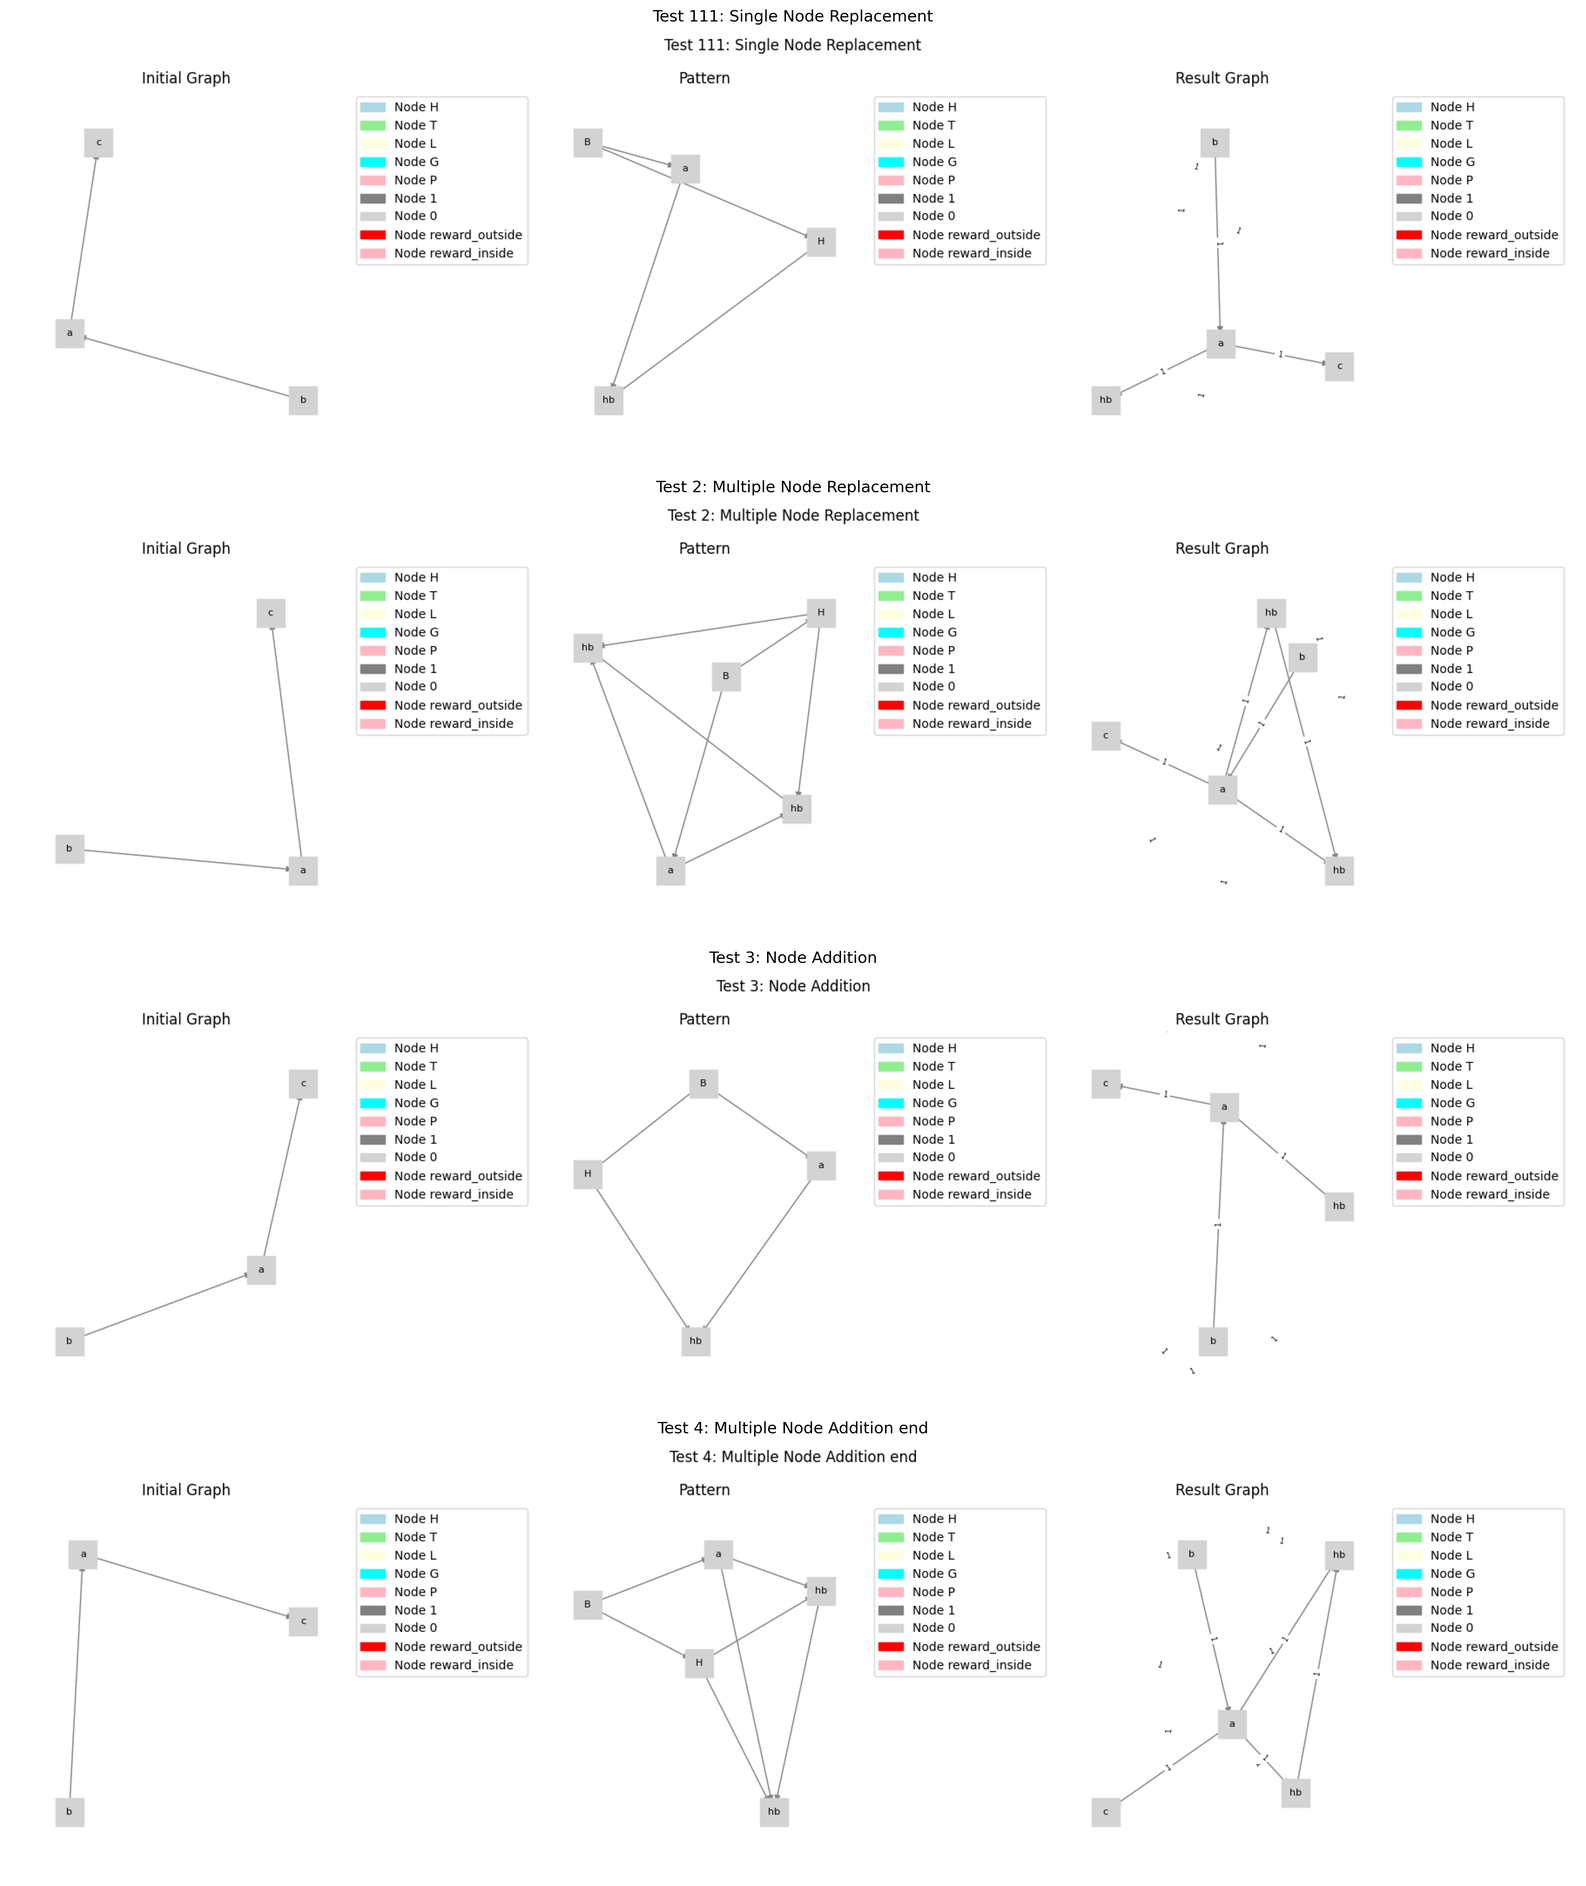
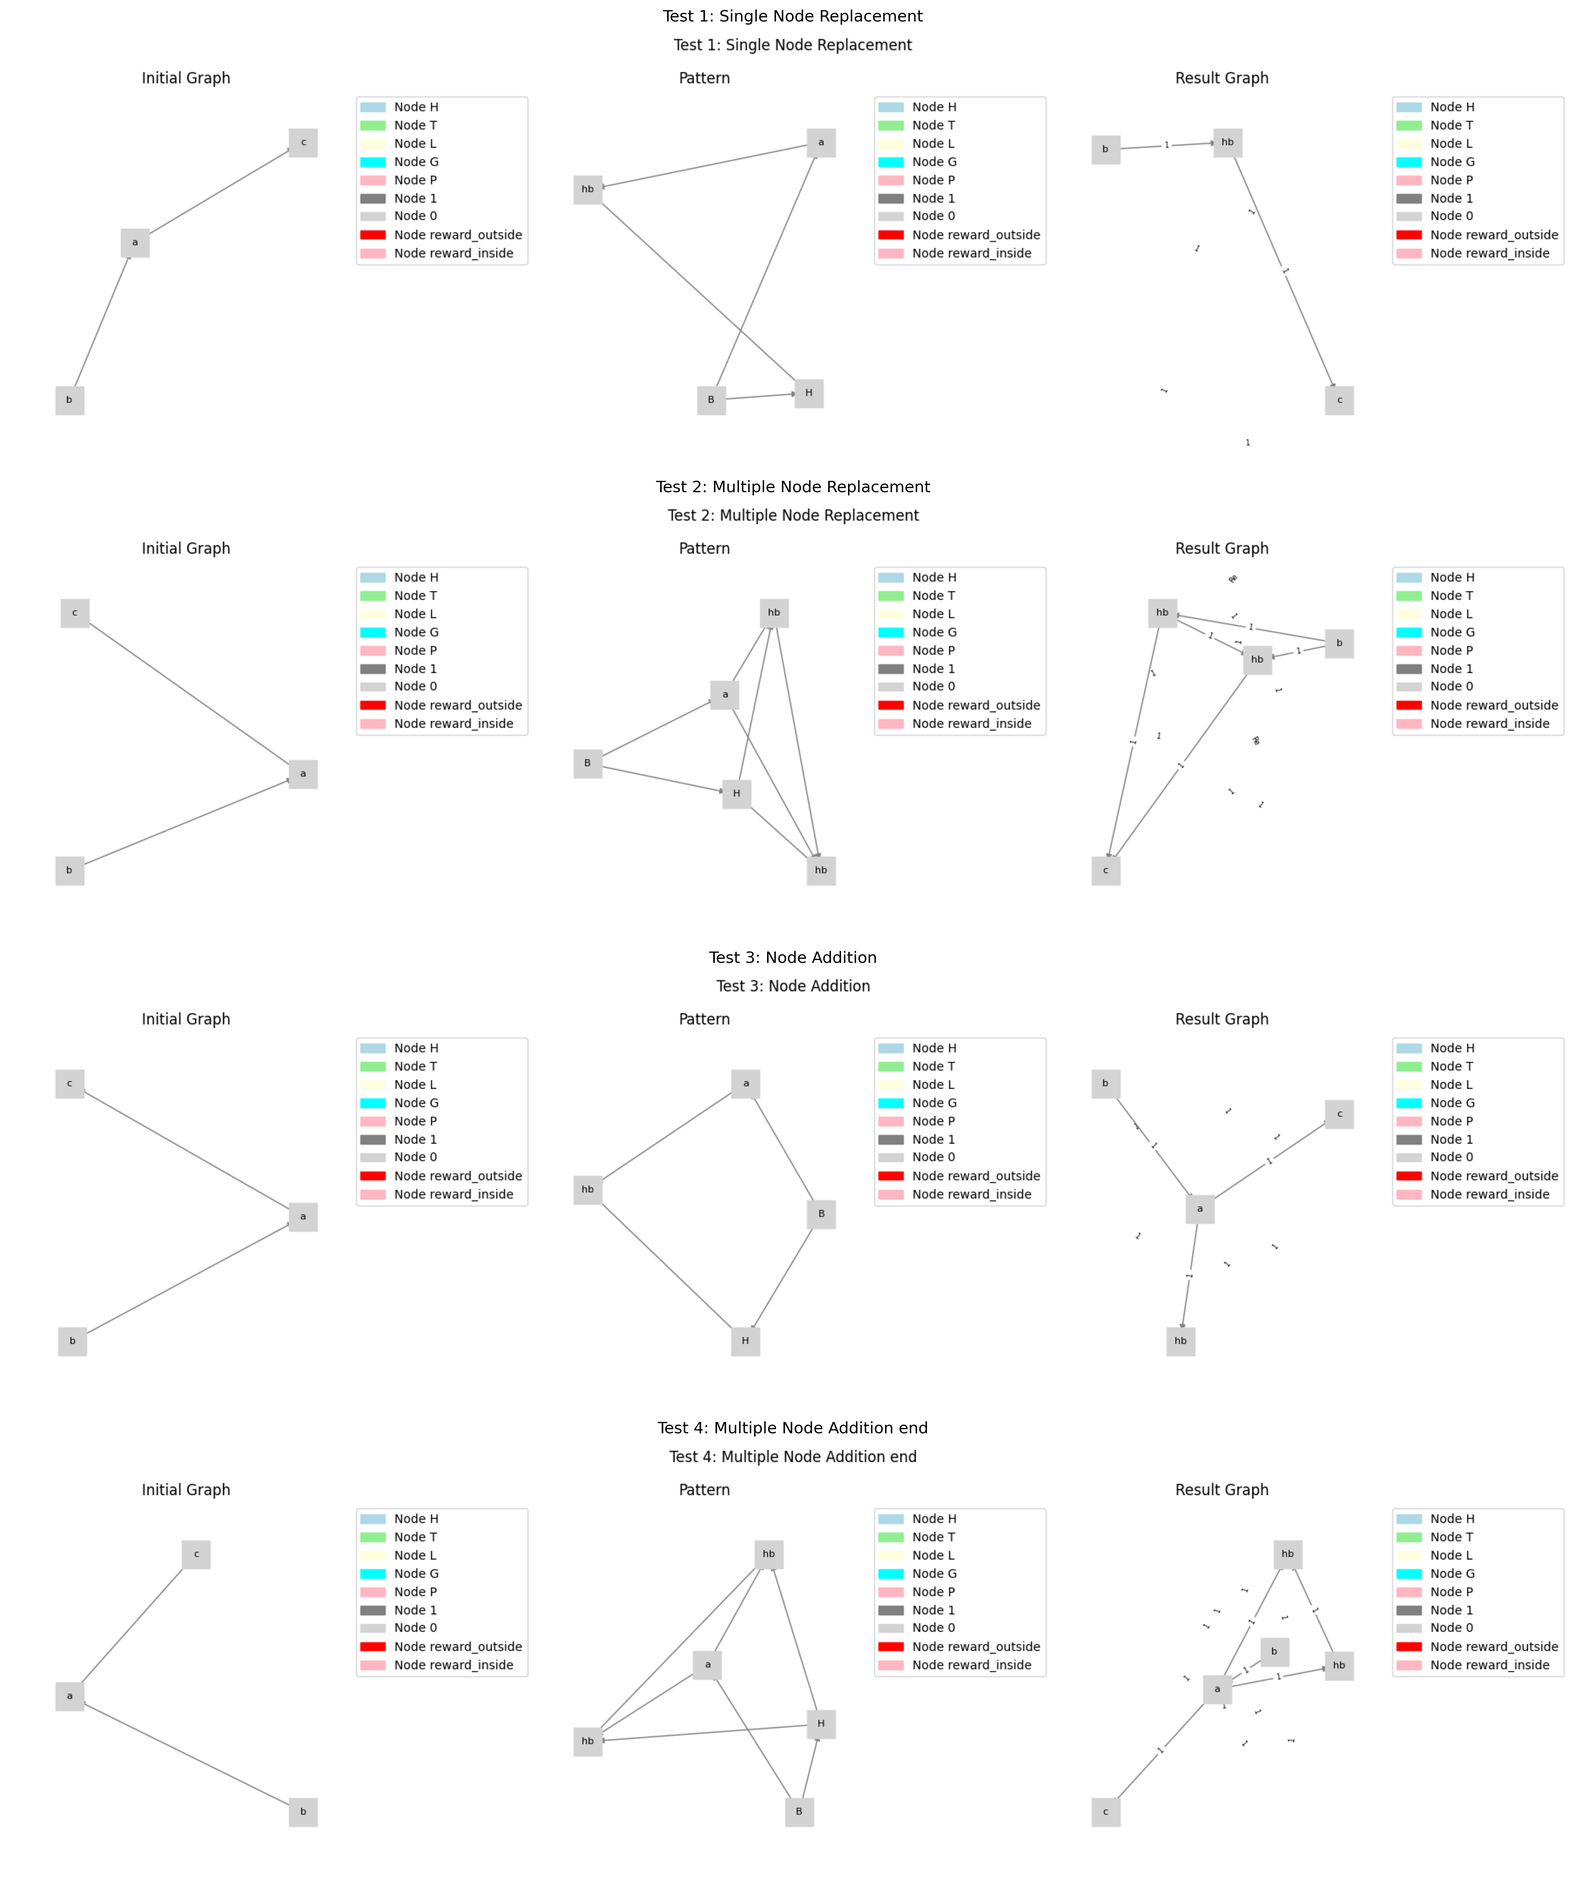
doing transforms replace part

diff --git a/DS/main.py b/DS/main.py
@@ -14,45 +14,47 @@ random.seed(1)
 NC = NodeCollection()
 GC = GraphCollection(NC=NC)
 
+def diff_graphs(G1, G2):
+    differences = {}
 
-class Transformation:
-    """Class to handle graph transformations with patterns"""
-    # ?? Add visualize with depth, G location of nearest nodes to pattern and transform procecces.
-    def __init__(self, pattern):
-        from DS.Space.Matching import edge_none_match, node_none_match
-        from DS.Space.Collections import GraphCollection
-        """
-        Initialize transformation with a pattern
-        
-        Args:
-            pattern (nx.DiGraph): Pattern graph with base and head
-        """        
-        self.pattern = pattern
-        self.n_m = node_none_match
-        self.e_m = edge_none_match
-        # self._init_pattern(pattern)
+    # Check graph type
+    if type(G1) != type(G2):
+        differences["graph_type"] = (type(G1), type(G2))
 
-    def _init_pattern(self):
-        """
-        Initialize the pattern
-        """
-        self.pbase = self.pattern.graph.get('pbase', None)
-        self.phead = self.pattern.graph.get('phead', None)
-        self.iB = self.pattern.graph.get('iB', 'B')
-        self.iH = self.pattern.graph.get('iH', 'H')
+    # Check node differences
+    nodes_G1 = set(G1.nodes())
+    nodes_G2 = set(G2.nodes())
 
-    
-        
-        
-        # G_copy = G.copy()
-        # apply_pattern(self.pattern, G)
-        
-        # if visualize:
-        #     VisG.visualize_transformation(G_copy, self.pattern, G, "Graph Transformation")
-            
-        # return G
+    if nodes_G1 != nodes_G2:
+        differences["missing_nodes"] = nodes_G1.symmetric_difference(nodes_G2)
 
+    # Check node attribute differences
+    node_attr_diffs = {}
+    for node in nodes_G1 & nodes_G2:
+        if G1.nodes[node] != G2.nodes[node]:
+            node_attr_diffs[node] = (G1.nodes[node], G2.nodes[node])
 
+    if node_attr_diffs:
+        differences["node_attributes"] = node_attr_diffs
+
+    # Check edge differences
+    edges_G1 = set(G1.edges())
+    edges_G2 = set(G2.edges())
+
+    if edges_G1 != edges_G2:
+        differences["missing_edges"] = edges_G1.symmetric_difference(edges_G2)
+
+    # Check edge attribute differences
+    edge_attr_diffs = {}
+    for edge in edges_G1 & edges_G2:
+        if G1[edge[0]][edge[1]] != G2[edge[0]][edge[1]]:
+            edge_attr_diffs[edge] = (G1[edge[0]][edge[1]], G2[edge[0]][edge[1]])
+
+    if edge_attr_diffs:
+        differences["edge_attributes"] = edge_attr_diffs
+    if differences != {}:
+        print('differences', differences)
+    return differences
 
 def create_test_graph(type='linear'):
     # Create test graph
@@ -89,19 +91,7 @@ def test_single_node_replacement_linear(graph2=create_test_graph(type='linear'),
     pbase, phead = nx.DiGraph(), nx.DiGraph()
     pbase.add_nodes_from([(10, {'type': None, 'label': 'a'})])
     phead.add_nodes_from([(11, {'type': 'F', 'label': 'hb'})])
-    pattern = create_pattern(phead, pbase, [(10, 11, {'type': 'replacement', 'label': '1'})])
-
-    # Create expected result
-    result_graph = nx.DiGraph()
-    result_graph.add_nodes_from([
-        (11, {'type': 'F', 'label': 'hb'}),
-        (1, {'type': 'b', 'label': 'b'}),
-        (2, {'type': 'c', 'label': 'c'}),
-    ])
-    result_graph.add_edges_from([
-        (1, 11, {'type': 1, 'label': '1'}),
-        (11, 2, {'type': 1, 'label': '1'}),
-    ])
+    pattern = create_pattern(phead, pbase, [(10, 11, {'type': 'replacement', 'label': 'Re'})])
 
     # Apply transformation
     graph2_copy = graph2.copy()
@@ -109,12 +99,42 @@ def test_single_node_replacement_linear(graph2=create_test_graph(type='linear'),
     GC.add_graph_to_collection(graph2, label='test', is_pattern=False)
     GC.transform(pattern)
 
-    # Visualize
-    print('-------in------G new ', GC.G.nodes(data=True), GC.G.edges)
-    if visualize:
-        VisG.visualize_transformation(graph2_copy, pattern, GC.G, "Test 111: Single Node Replacement")
+    # Create expected result (matching the node IDs that are actually produced)
+    result_graph = nx.DiGraph()
+    result_graph.add_nodes_from([
+        (3, {'type': 'F', 'label': 'hb'}),  # The transformation will create this as node 3
+        (1, {'type': 'b', 'label': 'b'}),
+        (2, {'type': 'c', 'label': 'c'}),
+    ])
+    result_graph.add_edges_from([
+        (1, 3, {'type': 1, 'label': '1'}),
+        (3, 2, {'type': 1, 'label': '1'}),
+    ])
 
-    return nx.utils.graphs_equal(result_graph, GC.G)
+    # Visualize
+    if visualize:
+        VisG.visualize_transformation(graph2_copy, pattern, GC.G, "Test 1: Single Node Replacement")
+
+    # Compare graphs
+    equal_nodes = set(GC.G.nodes()) == set(result_graph.nodes())
+    equal_edges = set(GC.G.edges()) == set(result_graph.edges())
+    
+    # For debugging - check edges more carefully
+    edge_data_match = True
+    for u, v in result_graph.edges():
+        if not GC.G.has_edge(u, v):
+            print(f"Missing edge ({u}, {v}) in result")
+            edge_data_match = False
+        elif GC.G.get_edge_data(u, v) != result_graph.get_edge_data(u, v):
+            print(f"Edge data mismatch for ({u}, {v}): Expected {result_graph.get_edge_data(u, v)}, Got {GC.G.get_edge_data(u, v)}")
+            edge_data_match = False
+    
+    if not equal_nodes:
+        print(f"Node mismatch. Expected: {result_graph.nodes(data=True)}, Got: {GC.G.nodes(data=True)}")
+    if not equal_edges:
+        print(f"Edge mismatch. Expected: {list(result_graph.edges(data=True))}, Got: {list(GC.G.edges(data=True))}")
+        
+    return equal_nodes and equal_edges and edge_data_match
 
 
 def test_multiple_node_replacement(graph2=create_test_graph(type='linear'), visualize=False):
@@ -128,25 +148,14 @@ def test_multiple_node_replacement(graph2=create_test_graph(type='linear'), visu
     ])
     phead.add_edges_from([(11, 12, {'type': 1, 'label': '1'})])
     pattern = create_pattern(phead, pbase, [
-        (10, 11, {'type': 'replacement', 'label': '1'}),
-        (10, 12, {'type': 'replacement', 'label': '1'})
+        (10, 11, {'type': 'replacement', 'label': 'Re'}),
+        (10, 12, {'type': 'replacement', 'label': 'Re'})
     ])
 
     # Create expected result
     result_graph = nx.DiGraph()
-    result_graph.add_nodes_from([
-        (11, {'type': 'F', 'label': 'hb'}),
-        (12, {'type': 'F', 'label': 'hb'}),
-        (1, {'type': 'b', 'label': 'b'}),
-        (2, {'type': 'c', 'label': 'c'}),
-    ])
-    result_graph.add_edges_from([
-        (1, 11, {'type': 1, 'label': '1'}),
-        (11, 2, {'type': 1, 'label': '1'}),
-        (12, 2, {'type': 1, 'label': '1'}),
-        (1, 12, {'type': 1, 'label': '1'}),
-        (11, 12, {'type': 1, 'label': '1'}),
-    ])
+    result_graph.add_nodes_from([(1, {'type': 'b', 'label': 'b'}), (2, {'type': 'c', 'label': 'c'}), (3, {'type': 'F', 'label': 'hb'}), (4, {'type': 'F', 'label': 'hb'})])
+    result_graph.add_edges_from([(1, 3, {'type': 1, 'label': '1'}), (1, 4, {'type': 1, 'label': '1'}), (3, 4, {'type': 1, 'label': '1'}), (3, 2, {'type': 1, 'label': '1'}), (4, 2, {'type': 1, 'label': '1'})])
 
     # Apply transformation
     graph2_copy = graph2.copy()
@@ -158,7 +167,8 @@ def test_multiple_node_replacement(graph2=create_test_graph(type='linear'), visu
     if visualize:
         VisG.visualize_transformation(graph2_copy, pattern, GC.G, "Test 2: Multiple Node Replacement")
 
-    return nx.utils.graphs_equal(result_graph, GC.G)
+    equals = diff_graphs(GC.G, result_graph) == {}
+    return equals  #nx.utils.graphs_equal(result_graph, GC.G)
 
 
 def test_node_addition(graph2=create_test_graph(type='linear'), visualize=False):
@@ -189,13 +199,16 @@ def test_node_addition(graph2=create_test_graph(type='linear'), visualize=False)
     GC.transform(pattern)
     #print('-------in------G new ', GC.G.nodes(data=True), GC.G.edges)
     #print(result_graph.nodes(data=True), result_graph.edges)
-
+    # print('-----------3--G new ', GC.G.nodes(data=True), GC.G.edges(data=True))
+    # print('-----------3--result_graph ', result_graph.nodes(data=True), result_graph.edges(data=True))
+    # print(diff_graphs(GC.G, result_graph))
+    
     # Visualize
     if visualize:
         VisG.visualize_transformation(graph2_copy, pattern, GC.G, "Test 3: Node Addition")
 
-    equals = nx.utils.graphs_equal(result_graph, GC.G)
-    print(f"Node Addition: {'PASSED' if equals else 'FAILED'}")
+    equals = diff_graphs(GC.G, result_graph) == {} #nx.utils.graphs_equal(result_graph, GC.G)
+    # print(f"Node Addition: {'PASSED' if equals else 'FAILED'}")
     return equals
 
 
@@ -216,20 +229,8 @@ def test_multiple_node_addition(graph2=create_test_graph(type='linear'), visuali
 
     # Create expected result
     result_graph = nx.DiGraph()
-    result_graph.add_nodes_from([
-        (11, {'type': 'F', 'label': 'hb'}),
-        (12, {'type': 'F', 'label': 'hb'}),
-        (0, {'type': 'a', 'label': 'a'}),
-        (1, {'type': 'b', 'label': 'b'}),
-        (2, {'type': 'c', 'label': 'c'}),
-    ])
-    result_graph.add_edges_from([
-        (0, 2, {'type': 1, 'label': '1'}),
-        (0, 11, {'type': 1, 'label': '1'}),
-        (0, 12, {'type': 1, 'label': '1'}),
-        (1, 0, {'type': 1, 'label': '1'}),
-        (11, 12, {'type': 1, 'label': '1'}),
-    ])
+    result_graph.add_nodes_from([(1, {'type': 'b', 'label': 'b'}), (2, {'type': 'c', 'label': 'c'}), (3, {'type': 'F', 'label': 'hb'}), (4, {'type': 'F', 'label': 'hb'}), (5, {'type': 'a', 'label': 'a'})])
+    result_graph.add_edges_from([(1, 5, {'type': 1, 'label': '1'}), (3, 4, {'type': 1, 'label': '1'}), (5, 3, {'type': 1, 'label': '1'}), (5, 4, {'type': 1, 'label': '1'}), (5, 2, {'type': 1, 'label': '1'})])
 
     # Apply transformation
     graph2_copy = graph2.copy()
@@ -240,9 +241,11 @@ def test_multiple_node_addition(graph2=create_test_graph(type='linear'), visuali
     # Visualize
     if visualize:
         VisG.visualize_transformation(graph2_copy, pattern, GC.G, "Test 4: Multiple Node Addition end")
-
-    equals = nx.utils.graphs_equal(result_graph, GC.G)
-    print(f"Multiple Node Addition: {'PASSED' if equals else 'FAILED'}")
+    # print('-------------G new ', GC.G.nodes(data=True), GC.G.edges(data=True))
+    # print('-------------result_graph ', result_graph.nodes(data=True), result_graph.edges(data=True))
+    # print(diff_graphs(GC.G, result_graph))
+    # 
+    equals = diff_graphs(GC.G, result_graph) == {} #nx.utils.graphs_equal(result_graph, GC.G)
     return equals
 
 
@@ -288,9 +291,9 @@ if __name__ == "__main__":
     # Run regular tests
     tests = [
         ("Single Node Replacement", test_single_node_replacement_linear),
-        #("Multiple Node Replacement", test_multiple_node_replacement),
-        #("Node Addition", test_node_addition),
-        #("Multiple Node Addition", test_multiple_node_addition)
+        ("Multiple Node Replacement", test_multiple_node_replacement),
+        ("Node Addition", test_node_addition),
+        ("Multiple Node Addition", test_multiple_node_addition)
     ]
 
     for test_name, test_func in tests:

diff --git a/DS/Space/Collections.py b/DS/Space/Collections.py
@@ -23,6 +23,11 @@ EDGE_TYPES = {
     'TRANSFORMATION HORIZONTAL': 'th'
 }
 
+COMAND_EDGE_TYPES = {
+    'replacement': 'r',
+    'replacement_in': 'ri',
+    'replacement_out': 'ro'
+}
 
 
 class NodeCollection:
@@ -295,12 +300,9 @@ class GraphCollection:
         P_copy_as_graph.remove_nodes_from(['B', 'H'])
         _, reindex_map = self.add_graph_to_collection(P_copy_as_graph, label=None, is_pattern=False)
         iso = self.renew_iso(iso, reindex_map)
-        print('-------------Iso', iso, reindex_map)
-        #print('-------------G', self.G.nodes(data=True))
         nx.relabel_nodes(self.G, iso, copy=False) # add base instead of Gisonodes  
-        #print('-------------G new', self.G.nodes(data=True))
         self.execute_spetial_rules(pattern, reindex_map)
-
+        
     def transfer_data(self, src_node, dst_node, head=True):
         if head:
             if dst_node['type'] == '^X':
@@ -325,32 +327,50 @@ class GraphCollection:
         """
         replacement - take data from phead node, remove pbase, save edges.
         """
-        #reverse_iso = {v: k for k, v in iso.items()}
-        #print('------execute_spetial_rules-------reverse_iso', reverse_iso) 
         nx.relabel_nodes(pattern, reindex_map, copy=False)
         nx.relabel_nodes(pattern.graph['pbase'], reindex_map, copy=False)
         edges_to_replace = defaultdict(list)
-        data_to_add = {}
-        for e, d in pattern.edges(data=True):
-            if d['type'] == 'replacement':
-                # edges to add, all edges of e[0] node
-                edges_to_replace[(e[0], e[1])].extend(list(self.G.edges(e[0])))
-                # data to add, all data of e[1] node
-                self.transfer_data(self.G.nodes[e[0]], self.G.nodes[e[1]], head=True)
-        edges_to_add = []
-        for k, v in edges_to_replace.items():
-            edges_to_add.extend(self.update_pairs(v, k[0], k[1]))
-        # add edges to G
-        for e in edges_to_add:
-            self.G.add_edge(e[0], e[1])
-        # remove edges from G
-        for k, v in edges_to_replace.items():
-            self.G.remove_edges_from(v)
-
-            # replace each edge in v[i] == k[0] to k[1]
-
-
+        nodes_to_remove = set()
         
+        # First, find all replacement edges and mark nodes for removal
+        for u, v, d in list(pattern.edges(data=True)):
+            if d['type'] == 'replacement':
+                # Remove the replacement edge from the pattern so it doesn't get added to G
+                
+                nodes_to_remove.add(u)
+                self.transfer_data(self.G.nodes[u], self.G.nodes[v], head=True)
+                
+                # Store all incoming edges to base node
+                for pred in list(self.G.predecessors(u)):
+                    edge_data = self.G.get_edge_data(pred, u)
+                    if edge_data['type'] not in COMAND_EDGE_TYPES:
+                        edges_to_replace[(u, v)].append(('in', pred, edge_data))
+                    
+                
+                # Store all outgoing edges from base node
+                for succ in list(self.G.successors(u)):
+                    edge_data = self.G.get_edge_data(u, succ)
+                    if edge_data['type'] not in COMAND_EDGE_TYPES:
+                        edges_to_replace[(u, v)].append(('out', succ, edge_data))
+                    
+         # Process each replacement pair
+        for (base_node, head_node), edges_list in edges_to_replace.items():
+            # Add new edges
+            for direction, other_node, edge_data in edges_list:
+                if direction == 'in':
+                    # Add edge from predecessor to head node
+                    if other_node != head_node:  # Prevent self-loops
+                        self.G.add_edge(other_node, head_node, **edge_data)
+                else:  # direction == 'out'
+                    # Add edge from head node to successor
+                    if other_node != head_node:  # Prevent self-loops
+                        self.G.add_edge(head_node, other_node, **edge_data)
+        
+        # Remove base nodes that were replaced (this will also remove all their edges)
+        for node in nodes_to_remove:
+            if node in self.G:
+                self.G.remove_node(node)
+
     def transform(self, pattern, number_of_transformations=1, visualize=False):
         """
         Apply the transformation pattern to graph G
@@ -366,7 +386,7 @@ class GraphCollection:
         isomorphisms = nx.algorithms.isomorphism.DiGraphMatcher(self.G, pbase, node_match=node_none_match, edge_match=edge_none_match).subgraph_isomorphisms_iter()
         for iso in list(isomorphisms)[:number_of_transformations]:
             #print('Isomorphisms', G.nodes(data=True), pbase.nodes(data=True), list(isomorphisms))
-            print('_____________Iso', iso)
+            #print('_____________Iso', iso)
             self.apply_pattern(pattern, iso)
 
     
